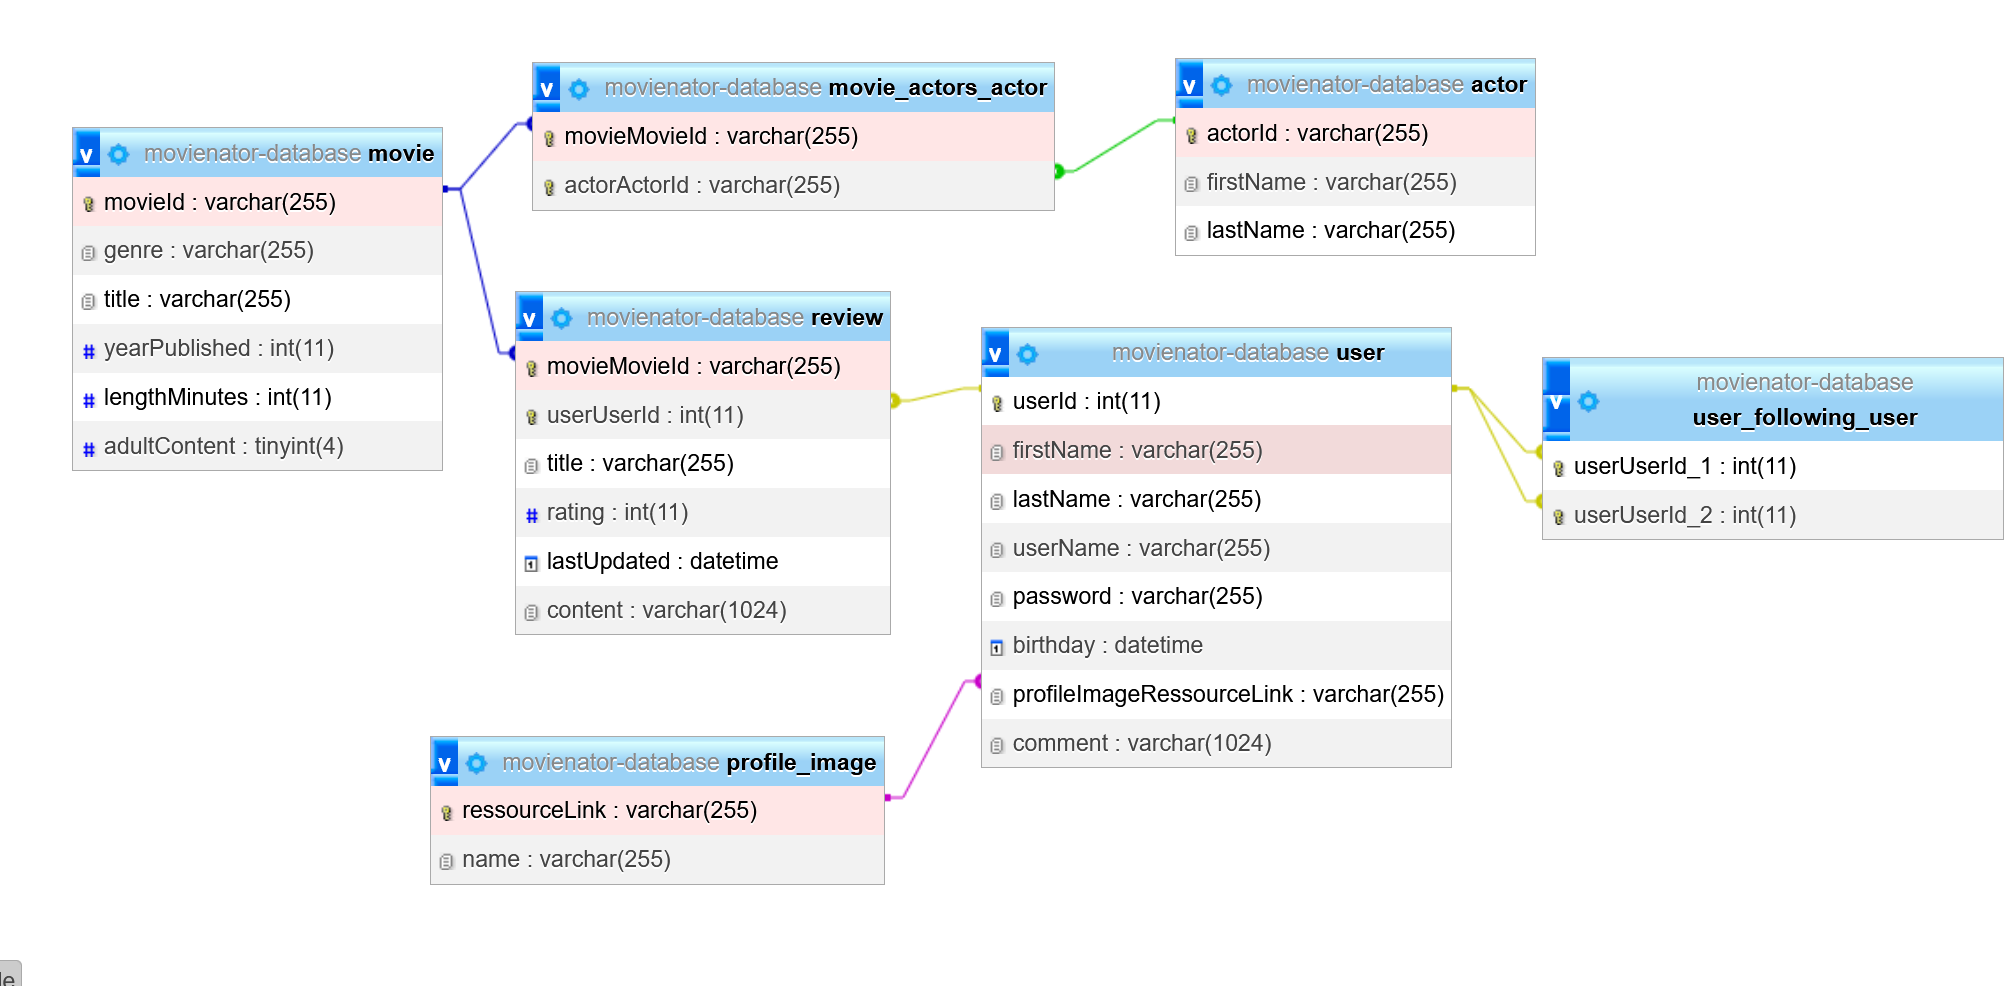
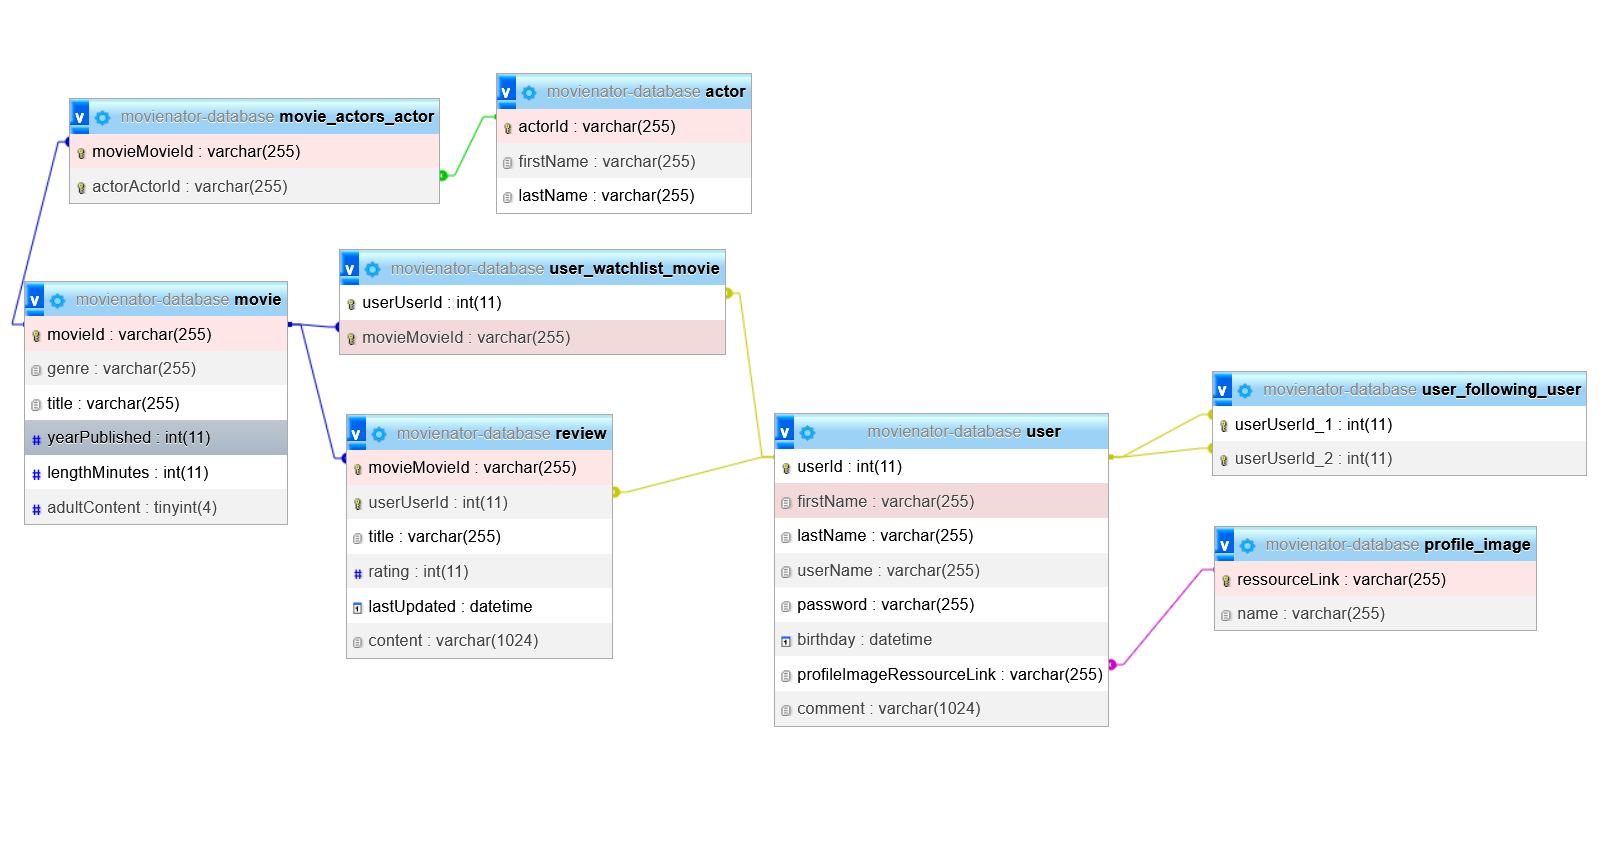
Add watchlist functionality. Create empty routes

Changed region(s): [[0.0, 0.0607, 1.0, 0.8798], [0.558, 0.0607, 0.775, 0.2427], [0.0, 0.9708, 0.031, 1.0]]

diff --git a/movienator_express/routes/users.ts b/movienator_express/routes/users.ts
@@ -4,4 +4,88 @@ const userRouter = expressUser.Router()
 
 //TODO Routing implementieren
 
+//Gets all users from the database
+userRouter.get("/all",(req, res)=>{
+
+})
+
+//Get the user with that id
+userRouter.get("/one/id/:id",(req, res)=>{
+
+})
+
+//Get the user with that username (should only be one)
+userRouter.get("/one/username/:username",(req, res)=>{
+
+})
+
+//Get all the users where the username is fitting the search word (might be more than 1)
+userRouter.get("/username/:word",(req, res)=>{
+
+})
+
+//Gets all the users that a following a single user
+userRouter.get("/followers/:id",(req, res)=>{
+
+})
+
+//Gets all the users that a single user is following
+userRouter.get("/following/:id",(req, res)=>{
+
+})
+
+//Gets all the users that the one user is following and have reviewed the movie
+userRouter.get("/following/:id/rated/:mId",(req, res)=>{
+
+})
+
+//Gets all the users that the one user is following and have the movie on their watchlist
+userRouter.get("/following/:id/watchlist/:mId",(req, res)=>{
+
+})
+
+//Insert a new User, userId should be NULL when inserting
+userRouter.post("/",(req, res)=>{
+
+})
+
+//User a is now following user b
+//Only "following" should need to be updated. "followers" on b should be updated automatically through ORM
+userRouter.post("/follow/:aId/:bId",(req, res)=>{
+
+})
+
+//Adds the movie with that Id to the watchlist of that user
+userRouter.post("/watchlist/:uId/:mId",(req, res)=>{
+
+})
+
+//Updates the User send in the body. Do NOT update the primary key or Relations
+userRouter.put("/",(req, res)=>{
+
+})
+
+//Delete the user with that id.
+//Make sure the reviews are delete too and he is removed from all following lists (play around with cascade annotation)
+userRouter.delete("/:id",(req,res)=>{
+
+})
+
+//User a is now no more following user b
+//Only "following" should need to be updated. "followers" on b should be updated automatically through ORM
+userRouter.delete("/follow/:aId/:bId",(req,res)=>{
+
+})
+
+//Deletes the movie with that Id from that users watchlist
+userRouter.delete("/follow/:uId/:mId",(req,res)=>{
+
+})
+
+
+
+
+
+
+
 module.exports = userRouter

diff --git a/movienator_express/routes/movies.ts b/movienator_express/routes/movies.ts
@@ -5,3 +5,73 @@ const movieRouter = expressMovie.Router()
 //TODO Routing implementieren
 
 module.exports = movieRouter
+
+//Get all the movies from the database
+movieRouter.get("/all",(req,res)=>{
+
+})
+
+// Get one movie by its id
+movieRouter.get("/one/:id",(req,res)=>{
+
+})
+
+//Gets all the movies that actor played in
+movieRouter.get("/actor/:id",(req,res)=>{
+
+})
+
+//Gets all the movies that user has reviewed
+movieRouter.get("/user/:id",(req,res)=>{
+
+})
+
+//Gets all movies with a min time
+movieRouter.get("/time/min/:min",(req,res)=>{
+
+})
+
+//Gets all movies with a max time
+movieRouter.get("/time/max/:max",(req,res)=>{
+
+})
+
+//Gets all movies released in this time span
+movieRouter.get("/date/:min/:max",(req,res)=>{
+
+})
+
+//Gets all movies where the name matches the searched word
+movieRouter.get("/name/:word",(req, res)=>{
+
+})
+
+//Gets all movies with a min average rating of x
+movieRouter.get("/rating/:min",(req, res)=>{
+
+})
+
+//Gets all the movies that are on the watchlist of that user
+movieRouter.get("/watchlist/:uId",(req, res)=>{
+
+})
+
+//Inserts a new movie from the body
+//Probably automatically insert actors
+movieRouter.post("/",(req,res?)=>{
+
+})
+
+//Update the movie in the body
+//Make sure to NOT update the primary keys or relations
+movieRouter.put("/",(req,res?)=>{
+
+})
+
+//Delete the movie with that id
+movieRouter.delete("/:id",(req,res?)=>{
+
+})
+
+
+

diff --git a/movienator_express/routes/reviews.ts b/movienator_express/routes/reviews.ts
@@ -4,4 +4,53 @@ const reviewRouter = expressReview.Router()
 
 //TODO Routing implementieren
 
+//Returns all reviews from the database, ordered by the last Updated value
+reviewRouter.get("/all",(req, res)=>{
+
+})
+
+//Gets all reviews to that movie, ordered by the last Updated value
+reviewRouter.get("/movie/:id",(req, res)=>{
+
+})
+
+//Gets all reviews done by that user, ordered by the last Updated value
+reviewRouter.get("/user/own/:id",(req, res)=>{
+
+})
+
+//Gets all reviews done by users that user is following, ordered by last updated
+reviewRouter.get("/user/following/:id", (req, res)=>{
+
+})
+
+//Gets all reviews done by users that user is following and having been updates since the timestamp, ordered by last updated
+reviewRouter.get("/user/following/:id/:time", (req, res)=>{
+
+})
+
+//Gets all reviews that have been updates since the timestamp, ordered by last updated
+reviewRouter.get("/time/:time",(req,res)=>{
+
+})
+
+//Saves a new review
+//Check if it is automatically added to movie and user or if that needs to be done manually
+reviewRouter.post("/",(req,res)=>{
+
+})
+
+//Update the specific review
+//Make sure to NOT update the primary keys or relations
+reviewRouter.put("/",(req,res)=>{
+
+})
+
+//Delete the review with that userId and movieId
+reviewRouter.delete("/:uId/:mId",(req,res)=>{
+
+})
+
+
+
 module.exports = reviewRouter

diff --git a/movienator_express/entity/user.ts b/movienator_express/entity/user.ts
@@ -1,6 +1,7 @@
 import {BaseEntity, Column, Entity, JoinTable, ManyToMany, ManyToOne, OneToMany, PrimaryGeneratedColumn} from "typeorm";
 import ProfileImage from "./profileImage";
 import Review from "./review";
+import Movie from "./movie";
 
 @Entity()
 export default class User extends BaseEntity{
@@ -26,7 +27,8 @@ export default class User extends BaseEntity{
     birthday: Date
 
     @ManyToOne(() => ProfileImage,(profileImage)=>profileImage.users, {
-        onDelete: "SET NULL"
+        onDelete: "SET NULL",
+        onUpdate: "CASCADE"
     })
     profileImage: ProfileImage
 
@@ -39,4 +41,8 @@ export default class User extends BaseEntity{
 
     @ManyToMany(()=>User, (user)=>user.following)
     followers: User[]
+
+    @ManyToMany(()=>Movie)
+    @JoinTable()
+    watchlist: Movie[]
 }

diff --git a/movienator_express/routes/actors.ts b/movienator_express/routes/actors.ts
@@ -5,3 +5,34 @@ const actorRouter = expressActor.Router()
 //TODO Routing implementieren
 
 module.exports = actorRouter
+
+//Gets all actors from the database
+actorRouter.get("/all", async (req,res) => {
+
+})
+
+//Gets one actor by his id
+actorRouter.get("/one/:id", async (req,res) => {
+
+})
+
+//Gets all the actors to the movie with that id
+actorRouter.get("/movie/:id", async (req,res) => {
+
+})
+
+//Updates the actor send in the body
+//Make sure to NOT update the primary keys or relations
+actorRouter.put("/", async (req,res)=>{
+
+})
+
+//Inserts the actor send in the body
+actorRouter.post("/",async (req,res)=>{
+
+})
+
+//Deletes the actor with that id
+actorRouter.delete("/:id",async (req,res)=>{
+
+})

diff --git a/movienator_express/entity/profileImage.ts b/movienator_express/entity/profileImage.ts
@@ -10,7 +10,7 @@ export default class ProfileImage extends BaseEntity{
     name: string
 
     @OneToMany(()=> User, (user)=>user.profileImage,{
-        onDelete: "SET NULL"
+        onDelete: "SET NULL",
     })
     users: User[]
 }

diff --git a/movienator_express/entity/Docs/01enitities.md b/movienator_express/entity/Docs/01enitities.md
@@ -1,3 +1,3 @@
 Das momentane Datenbank Schema  
 
-<img src="Schema_2_12_2022.png" height="986" width="2005" alt="Schema">
+<img src="Schema_2_12_2022.png" height="857" width="1613" alt="Schema">
